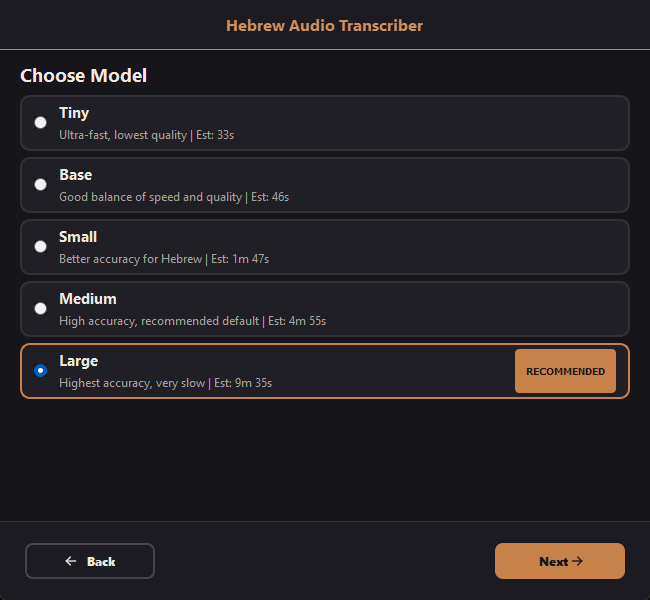
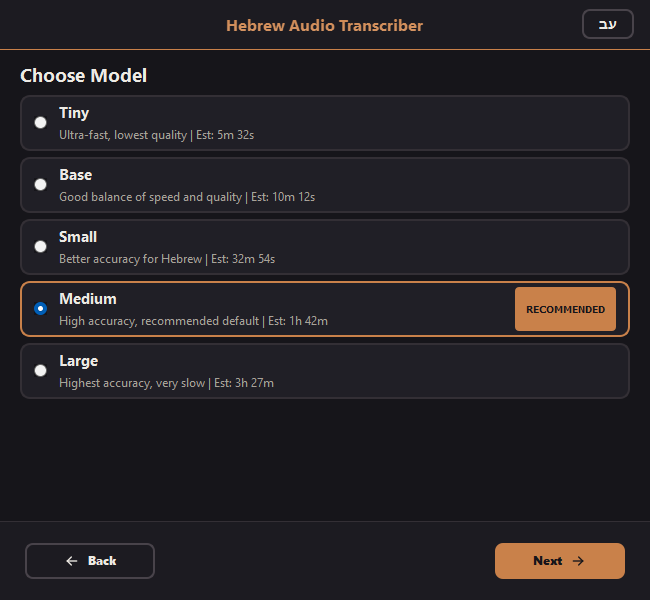
Update README for the bilingual UI and refresh screenshots
- Overview: document the English/Hebrew toggle, RTL mirroring, and
  persistence as a headline feature
- Screenshots: fresh captures including the header language toggle,
  now shown in both English and Hebrew (RTL) rows
- Usage: clarify run.bat (double-click) vs run.ps1 (terminal) and the
  py-launcher preference; note that live progress follows the selected
  language mid-run
- Project structure: add gui/i18n.py and gui/widgets.py, fix tree
  comment alignment

diff --git a/README.md b/README.md
@@ -9,15 +9,17 @@ A desktop application that transcribes Hebrew audio and video into text, using [
 ## Overview
 
 Point it at an audio or video file, and it walks you through a 3-step wizard: pick the file, pick a Whisper model, and transcribe.
+- **Bilingual interface (English / עברית)**: starts in English; the עב/EN button in the header switches the whole UI to a fully mirrored right-to-left Hebrew layout, live - even mid-transcription - and the choice is remembered between runs.
 - **Real hardware-aware recommendations**: the suggested model is computed from your actual CPU/RAM and the file's duration.
 - **Text file saving location:** The text file is saved automatically to the same directory from which the audio comes from for easy access.
 
 
 ## Screenshots
 
-| File Selection                                            | Mode Picking                                           |
-| --------------------------------------------------------- | ------------------------------------------------------ |
-| ![File selection screen](docs/screenshot-file-select.png) | ![model picking screen](docs/screenshot-model-picking.png) |
+|              | File Selection                                            | Model Picking                                           |
+| ------------ | --------------------------------------------------------- | ------------------------------------------------------ |
+| English      | ![File selection screen](docs/screenshot-file-select.png) | ![Model picking screen](docs/screenshot-model-picking.png) |
+| Hebrew (RTL) | ![File selection screen in Hebrew](docs/screenshot-file-select-he.png) | ![Model picking screen in Hebrew](docs/screenshot-model-picking-he.png) |
 
 ## Flow Chart
 
@@ -49,12 +51,12 @@ pip install -r requirements-dev.txt
 python -m speech_to_text.main
 ```
 
-or, on Windows, run `run.bat` / `run.ps1` directly. After `pip install -e .`, the `speech-to-text` console command is also available.
+On Windows, `run.bat` is the double-click option, and `run.ps1` is the equivalent for terminals (`.\run.ps1`; Windows hands double-clicked `.ps1` files to whatever app the file association names, usually an editor, so making the script itself double-clickable takes a one-time "Open with" choice). Both prefer the `py` launcher over PATH's `python`, and both keep the console open with the reason when a launch fails. After `pip install -e .`, the `speech-to-text` console command is also available.
 
 **Workflow:**
 1. **Select Audio File**: drag a file into the drop zone (or click to browse). Your CPU/RAM/GPU are shown alongside the file's real duration.
 2. **Choose Model**: pick from the five Whisper model sizes below; the app pre-selects the highest-accuracy model that will still finish within a reasonable time on your hardware.
-3. **Transcribe**: watch live progress, or cancel and return to model selection at any point. On completion, the transcript is saved next to the source file.
+3. **Transcribe**: watch live progress, or cancel and return to model selection at any point. Progress and status messages follow the selected UI language, even if you switch mid-run. On completion, the transcript is saved next to the source file.
 
 ### Model sizes
 
@@ -82,11 +84,13 @@ speech_to_text/
 │   └── dependencies.py        # Installs missing runtime dependencies on first launch
 └── gui/
     ├── main_window.py         # Main window, wizard navigation, transcription lifecycle
+    ├── i18n.py                # English/Hebrew string table, language state, persistence
+    ├── widgets.py             # IconTextButton: direction-independent icon+text nav button
     ├── threads.py             # QThread bridge between the GUI and the background process
     ├── steps/                 # One module per wizard step (file select / model select / transcribe)
-    ├── theme.py                # Colors, fonts, QSS stylesheet builders
-    ├── icons.py                 # Tabler icon SVGs, rendered to QPixmap
-    └── audio_utils.py           # Real audio/video duration probing (via PyAV)
+    ├── theme.py               # Colors, fonts, QSS stylesheet builders
+    ├── icons.py               # Tabler icon SVGs, rendered to QPixmap
+    └── audio_utils.py         # Real audio/video duration probing (via PyAV)
 
 tests/                          # pytest suite covering config, hardware detection, transcriber, and integration
 docs/